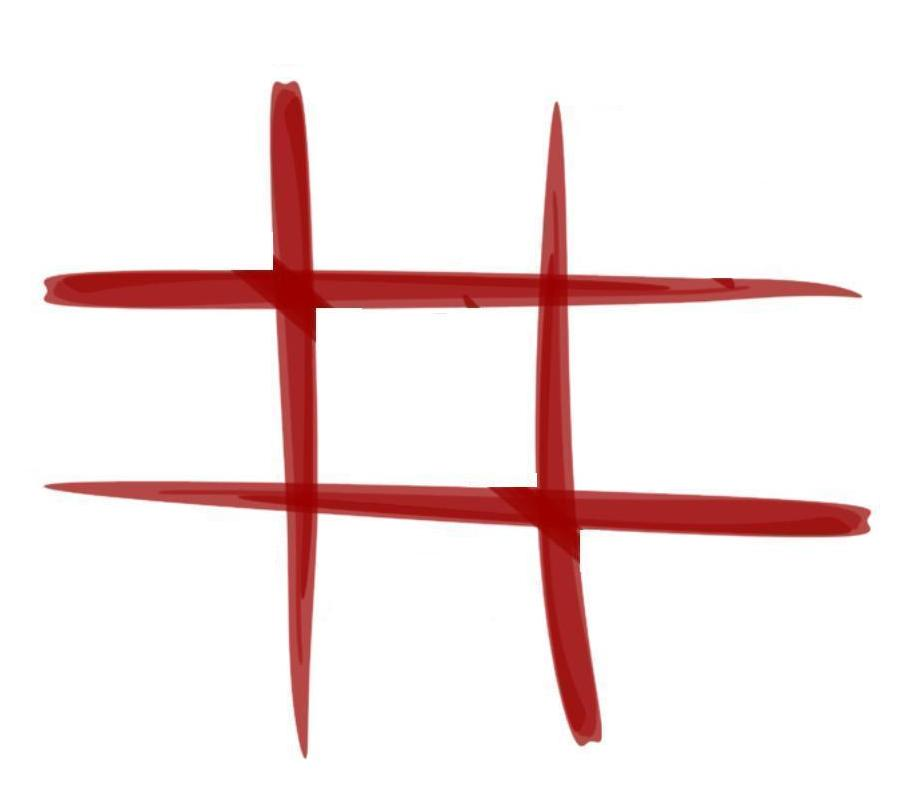
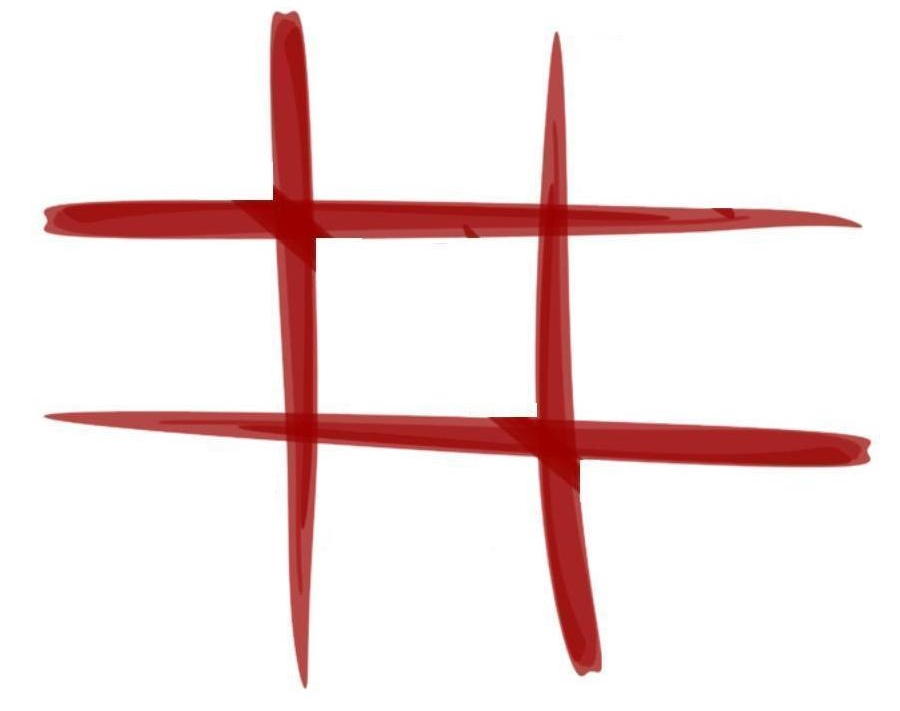
-made brush image and style smaller

diff --git a/delivery/swing/src/main/java/com/crudetech/tictactoe/delivery/swing/grid/Styles.java b/delivery/swing/src/main/java/com/crudetech/tictactoe/delivery/swing/grid/Styles.java
@@ -34,12 +34,13 @@ public enum Styles implements Style {
             int width = 215;
             int height = 170;
 
+            final int yoff = 70;
             int x0 = 55;
-            int y0 = 98;
+            int y0 = 98 - yoff;
             int x1 = 320;
-            int y1 = 310;
+            int y1 = 310 - yoff;
             int x2 = 600;
-            int y2 = 538;
+            int y2 = 538 - yoff;
             Rectangle[][] rectLocations = new Rectangle[][]{
                     {new Rectangle(x0, y0, width, height), new Rectangle(x1, y0, width, height), new Rectangle(x2, y0, width, height)},
                     {new Rectangle(x0, y1, width, height), new Rectangle(x1, y1, width, height), new Rectangle(x2, y1, width, height)},
